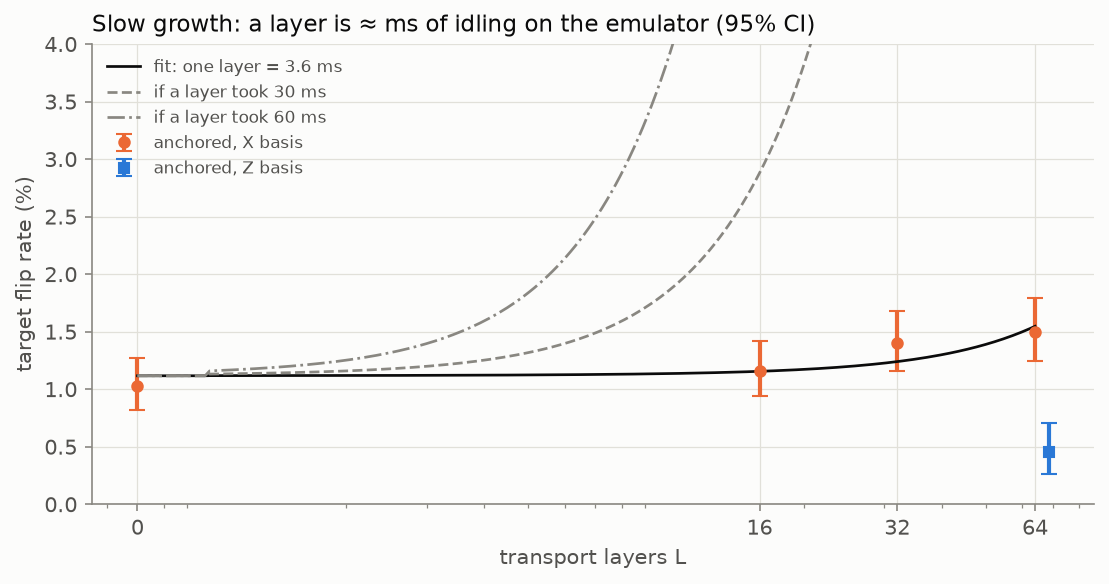
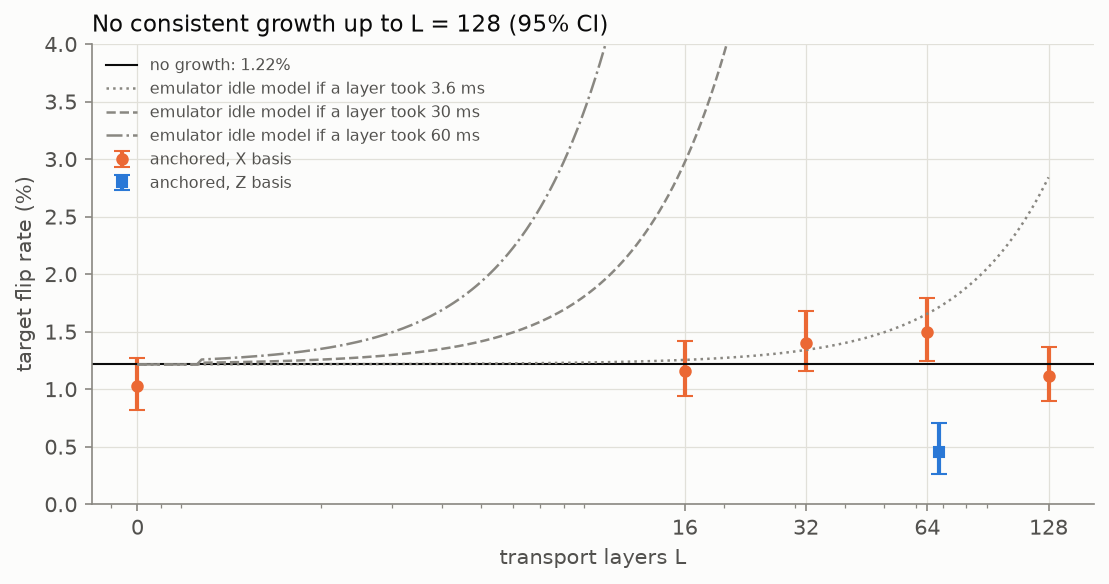
Hardware: anchored idle at L=128 shows no growth; withdraw the 3.6 ms/layer fit

diff --git a/notebooks/_build.py b/notebooks/_build.py
@@ -1367,16 +1367,17 @@ md('''
 ## Anchored, long waits (1000 shots = 8000 samples per X point)
 '''),
 code('''
+from scipy.stats import chi2 as chi2_dist
 lg = json.loads((H / "h2_1e_anchored_idle_long.json").read_text())
-ft = json.loads((H / "h2_1e_anchored_idle_long_fit.json").read_text())
 om = 2 * math.pi * cal["quad_rate"] * cal["quad_factor"]; g = cal["gamma"]
 pz = lambda t: g * t + np.sin(om * t / 2) ** 2 - 2 * g * t * np.sin(om * t / 2) ** 2
-L = np.array([0, 16, 32, 64]); k = np.array([lg[f"X_L{l}"]["k"] for l in L]); n = 8000; p = k / n
+L = np.array([l for l in (0, 16, 32, 64, 128) if f"X_L{l}" in lg]); n = 8000
+k = np.array([lg[f"X_L{l}"]["k"] for l in L]); p = k / n; se = np.sqrt(p * (1 - p) / n)
 for l, kk in zip(L, k):
-    print(f"X, L = {l:>2}: {kk}/{n} = {100 * kk / n:.2f}%")
-print(f"Z, L = 64: {lg['Z_L64']['k']}/{lg['Z_L64']['n']} = {100 * lg['Z_L64']['p']:.2f}%")
-print(f"fit with the emulator's idle model: one layer = {1e3 * ft['layer_seconds']:.1f} ± {1e3 * ft['layer_seconds_se']:.1f} ms "
-      f"(chi2 {ft['chi2']:.2f} on 2 dof)")
+    print(f"X, L = {l:>3}: {kk}/{n} = {100 * kk / n:.2f}%")
+print(f"Z, L =  64: {lg['Z_L64']['k']}/{lg['Z_L64']['n']} = {100 * lg['Z_L64']['p']:.2f}%")
+w = 1 / se ** 2; m = (w * p).sum() / w.sum(); c = (((p - m) / se) ** 2).sum()
+print(f"no growth (constant {100 * m:.2f}%): chi2 {c:.1f} on {len(L) - 1} dof, p = {chi2_dist.sf(c, len(L) - 1):.3f}")
 '''),
 code('''
 fig, ax = plt.subplots(figsize=(7.5, 4))
@@ -1384,25 +1385,29 @@ ci = np.array([cp(int(v), n) for v in k]).T; x = np.where(L == 0, 0.7, L)
 ax.errorbar(x, p * 100, yerr=[(p - ci[0]) * 100, (ci[1] - p) * 100], fmt="o", color=P.SERIES[1], capsize=4, label="anchored, X basis")
 z = lg["Z_L64"]; lo, hi = cp(z["k"], z["n"])
 ax.errorbar([64 * 1.07], [100 * z["p"]], yerr=[[100 * (z["p"] - lo)], [100 * (hi - z["p"])]], fmt="s", color=P.SERIES[0], capsize=4, label="anchored, Z basis")
-Ls = np.geomspace(0.7, 64, 200); f, tau = ft["floor"], ft["layer_seconds"]
-for tt, ls, lab in ((tau, "-", f"fit: one layer = {1e3 * tau:.1f} ms"), (30e-3, "--", "if a layer took 30 ms"), (60e-3, "-.", "if a layer took 60 ms")):
-    q = pz(tt * np.where(Ls < 1, 0, Ls)); ax.plot(Ls, (f + q - 2 * f * q) * 100, ls, color=P.INK if ls == "-" else P.MUTED, lw=1.3, label=lab)
-ax.set_xscale("log"); ax.set_xticks([0.7, 16, 32, 64], ["0", "16", "32", "64"]); ax.xaxis.set_minor_formatter(plt.NullFormatter())
-ax.set_ylim(0, 4); ax.set_xlabel("transport layers L"); ax.set_ylabel("target flip rate (%)"); ax.legend(fontsize=8, loc="upper left")
-ax.set_title("Slow growth: a layer is ≈ ms of idling on the emulator (95% CI)", loc="left")
+ax.axhline(100 * m, color=P.INK, lw=1, label=f"no growth: {100 * m:.2f}%")
+Ls = np.geomspace(0.7, 128, 200)
+for tt, ls in ((3.6e-3, ":"), (30e-3, "--"), (60e-3, "-.")):
+    q = pz(tt * np.where(Ls < 1, 0, Ls)); ax.plot(Ls, (m + q - 2 * m * q) * 100, ls, color=P.MUTED, lw=1.2, label=f"emulator idle model if a layer took {tt * 1e3:g} ms")
+ax.set_xscale("log"); ax.set_xticks([0.7, 16, 32, 64, 128], ["0", "16", "32", "64", "128"]); ax.xaxis.set_minor_formatter(plt.NullFormatter())
+ax.set_ylim(0, 4); ax.set_xlabel("transport layers L"); ax.set_ylabel("target flip rate (%)"); ax.legend(fontsize=7.5, loc="upper left")
+ax.set_title("No consistent growth up to L = 128 (95% CI)", loc="left")
 fig.tight_layout()
 '''),
 md('''
 **Reading.**
-- *Measured:* the X basis rises slowly (1.03% → 1.50% by L = 64, ~3σ); the Z basis stays low (0.45%),
-  as for Z-only idling.
-- *Measured:* fitted with the emulator's own idle model (γ, ω from its data sheet), one spectator
-  layer is ≈ 3.6 ± 0.8 ms of idling, far shorter than the published ~60 ms depth-one time (which
-  is measured with all qubits in use): these small 17-qubit layers need little transport.
-- *Open:* linear and quadratic growth cannot yet be told apart (linear-only χ² 0.8, quadratic-only
-  2.6, on 2 dof). Longer waits separate them; L = 256 was refused as over the per-job limit and
-  L = 128 is queued. The time per layer depends on circuit size, so it does not give a
-  surface-code round time.
+- *Measured:* the X-basis flip rate stays near 1.2% from L = 0 to 128 (1.03, 1.16, 1.40, 1.50,
+  1.11%); the Z basis stays low (0.45%). The points scatter more than chance allows around a
+  constant (p ≈ 0.04), but they do not rise steadily: L = 128 is back at the floor.
+- *Measured:* any idle dephasing of the waiting targets is below ~0.5% even at L = 128. With the
+  emulator's own idle rates that means under ~0.2 s of effective idling in 128 layers: ≲ 1–2 ms
+  per layer, if the targets really idle in |+⟩ for the whole wait. The ~60 ms published depth-one
+  time is ruled out for these layers.
+- *Withdrawn:* an earlier 100-shot point (2.4% at L = 16) and a 4-point fit (≈ 3.6 ms per layer)
+  were not confirmed by the L = 128 run.
+- *Open:* whether the emulator applies its idle dephasing to these programs at all. Longer waits
+  are capped: L = 256 (~1050 two-qubit gates) was refused as over the per-job cost limit. The
+  time per layer depends on circuit size, so it does not give a surface-code round time.
 '''),
 ]
 

diff --git a/results/hardware/experiments/03_idle_spectators/README.md b/results/hardware/experiments/03_idle_spectators/README.md
@@ -18,18 +18,20 @@ Why anchoring: without it, nothing stops the scheduler from preparing the target
 readout, so they wait in |0⟩ and see no dephasing. The anchor (one extra qubit, a ZZ with each
 target, undone at the end) forces the targets into |+⟩ before the wait.
 
-**Anchored, long waits (H2-1E, 1000 shots = 8000 samples per point).**
+**Anchored, long waits (H2-1E, 1000 shots = 8000 samples per X point).**
 
-| L | 0 | 16 | 32 | 64 | Z basis, L = 64 |
-| --- | --- | --- | --- | --- | --- |
-| flip rate | 1.03% | 1.16% | 1.40% | 1.50% | 0.45% |
+| L | 0 | 16 | 32 | 64 | 128 | Z basis, L = 64 |
+| --- | --- | --- | --- | --- | --- | --- |
+| flip rate | 1.03% | 1.16% | 1.40% | 1.50% | 1.11% | 0.45% |
 
-- X rises slowly (+0.5 points by L = 64, ~3σ); Z stays low, as for Z-only idling.
-- Fit with the emulator's own idle model: **one spectator layer ≈ 3.6 ± 0.8 ms** of idling
-  (χ² 2.3 on 2 dof). Far shorter than the published ~60 ms depth-one time: these small
-  17-qubit layers seem to need little transport on the emulator.
-- An earlier 100-shot run showed 2.4% at L = 16; with 10× the shots it is 1.16%. That point was
-  a fluctuation, and the "~30 ms per layer" read from it is withdrawn.
+- No consistent growth: L = 128 is back at the floor (mean 1.22%; scatter a little above chance,
+  p ≈ 0.04, but not a steady rise). Z stays low.
+- Any idle dephasing is below ~0.5% even at L = 128: under ~0.2 s of effective idling on the
+  emulator's own rates, i.e. ≲ 1–2 ms per layer, if the targets really wait in |+⟩. The ~60 ms
+  published depth-one time is ruled out for these small layers.
+- Withdrawn: the 100-shot 2.4% at L = 16, and the 4-point fit of ≈ 3.6 ms per layer.
+- Open: whether the emulator applies idle dephasing to these programs at all. L = 256 (~1050
+  two-qubit gates) was refused as over the per-job cost limit, even at 500 shots.
 
 **Files.** `results/hardware/calibration_programs/idle*`, `h2_1e_*idle*.fit.json`,
 `h2_1e_anchored_idle_long*.json`, `h2_1e_anchored_idle_long.png`.

diff --git a/README.md b/README.md
@@ -8,8 +8,8 @@ are swappable, and every implementation is checked against the same contracts.
 locally and on the H2 syntax checkers, and run on Quantinuum's H2-1E / H2-2E emulators through
 aqora (organisation `q_sq`); no device is available to this account. Results so far:
 in-program noise injection agrees with Stim on the emulator; a d = 5 Δt sweep on H2-2E follows a
-circuit model of the program that includes H2-2E's gate noise; spectator experiments measure the
-emulator's idle dephasing (one spectator layer ≈ 3.6 ms). Open: two sweep points (one result not
+circuit model of the program that includes H2-2E's gate noise; spectator experiments see no
+consistent idle dephasing up to 128 layers (below ~0.5%). Open: two sweep points (one result not
 returned by aqora, one over the per-job cost limit), linear vs quadratic idle growth, and a
 leakage-heralded decoder (the QIR toolchain cannot compile leakage-aware measurement).
 

diff --git a/results/hardware/emulator_runs.md b/results/hardware/emulator_runs.md
@@ -103,3 +103,9 @@ emulator idle model: one layer ≈ 3.6 ± 0.8 ms (χ² 2.3 / 2 dof). The 2.4% at
 100-shot run was a fluctuation (now 1.16%). Files: `h2_1e_anchored_idle_long*.json`, `.png`.
 
 ![anchored long](h2_1e_anchored_idle_long.png)
+
+### Anchored, L = 128 (1000 shots), and a correction
+
+X at L = 128: 89 / 8000 = 1.11%, back at the floor. Across L = 0-128 the X rate shows no steady
+growth (constant 1.22%, χ² 10.2 / 4 dof). The "≈ 3.6 ms per layer" fit above is withdrawn: any idle
+dephasing is below ~0.5% at L = 128. L = 256 refused (cost limit), at 1000 and at 500 shots.
